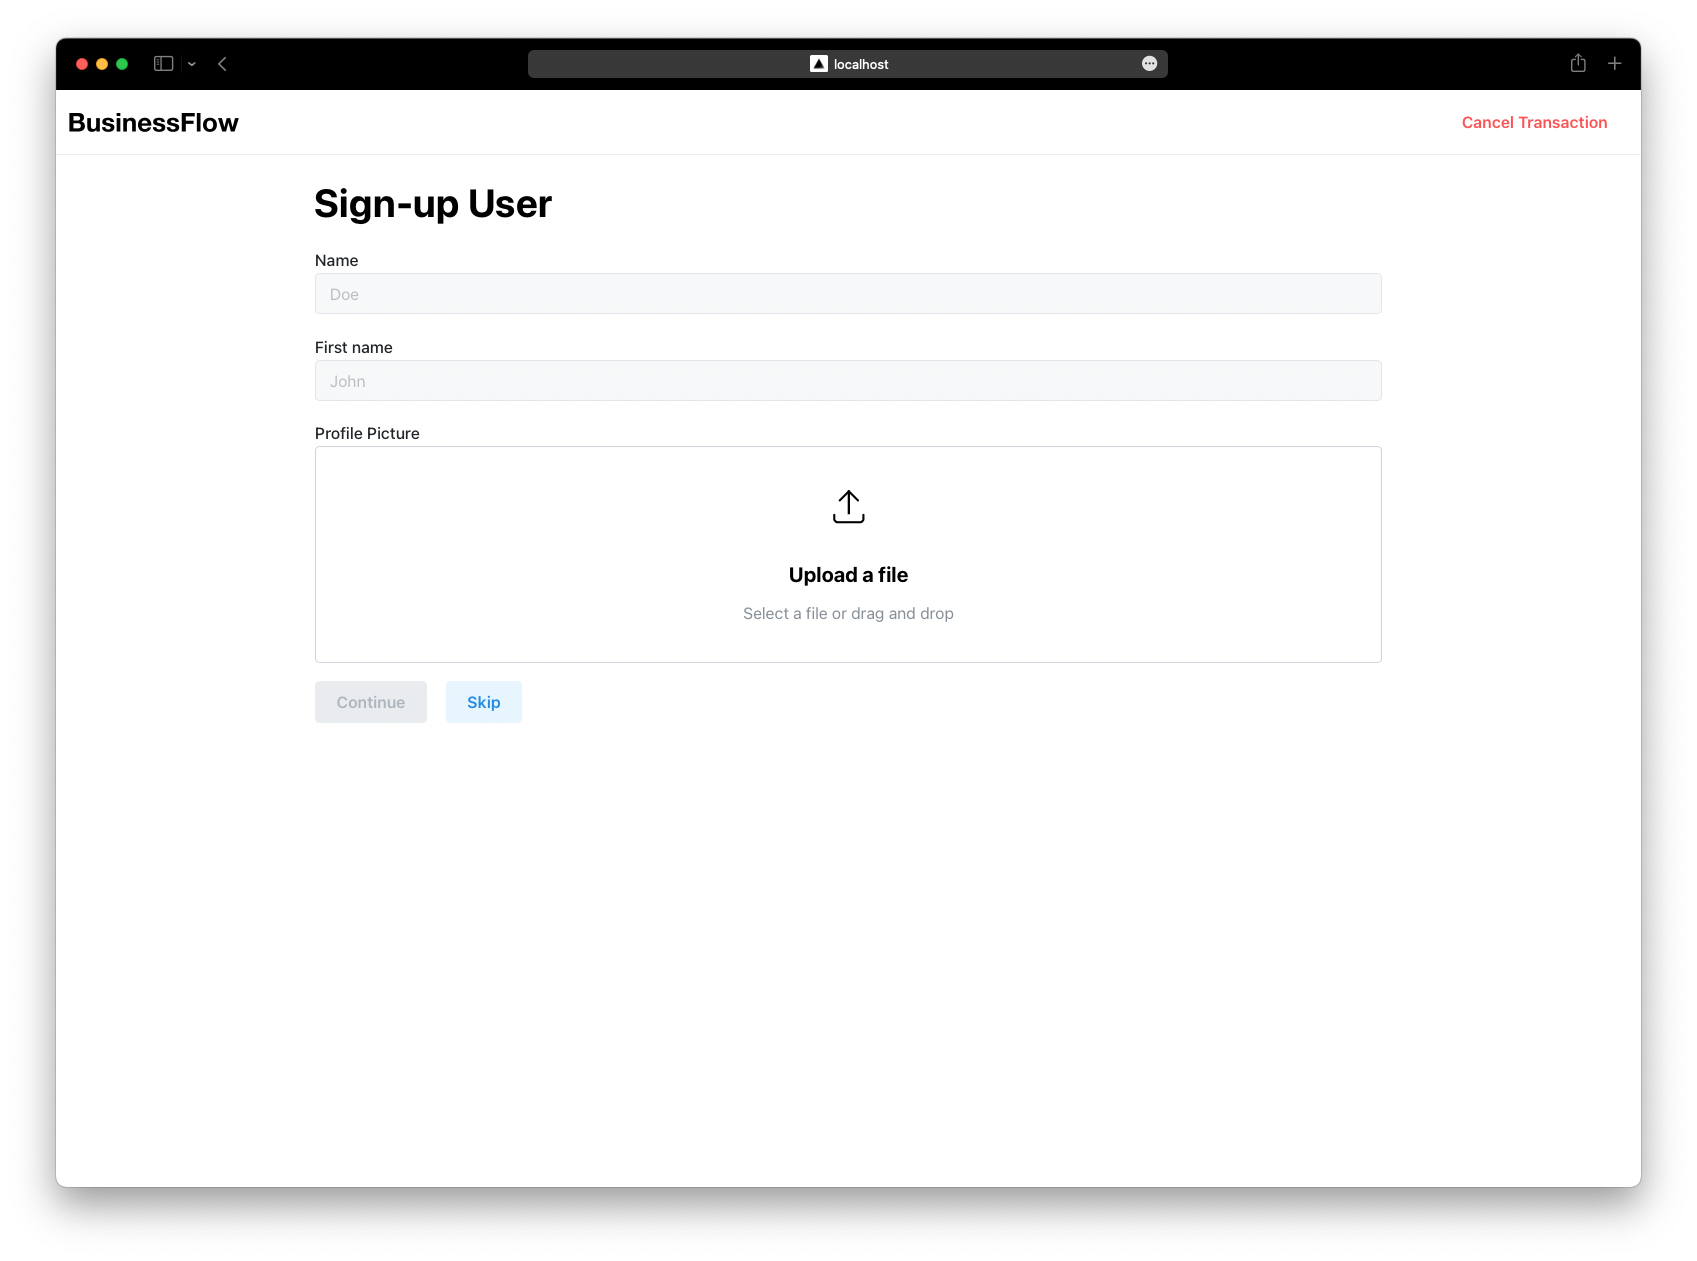
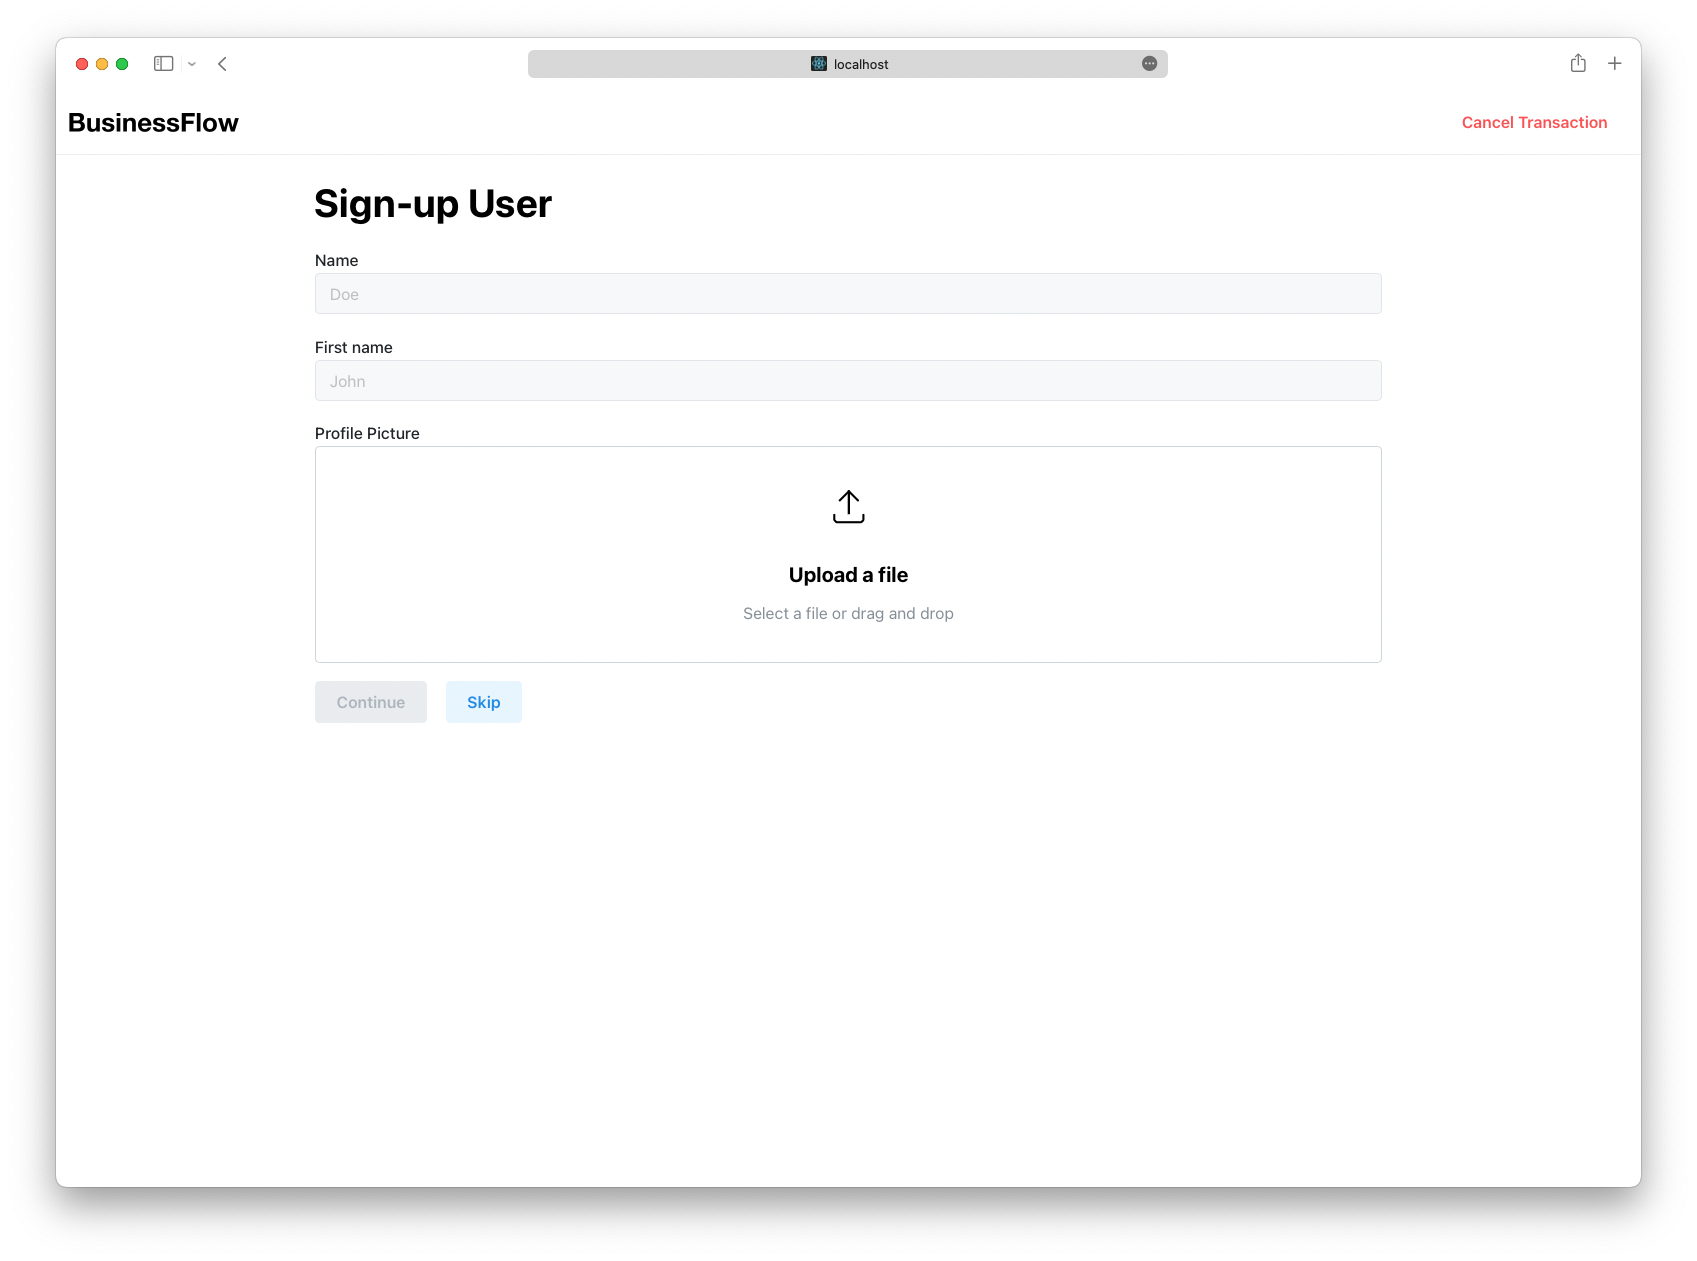
Update demo screenshots

Changed region(s): [[0.0312, 0.0309, 0.9682, 0.0928]]

diff --git a/apps/web/public/index.html b/apps/web/public/index.html
@@ -4,7 +4,7 @@
 <head>
   <meta charset="utf-8" />
   <meta name="viewport" content="width=device-width, initial-scale=1" />
-  <meta name="theme-color" content="#000000" />
+  <meta name="theme-color" content="#ffffff" />
   <meta name="description" content="Web site created using create-react-app" />
 
   <link rel="icon" href="%PUBLIC_URL%/favicon.ico" />
